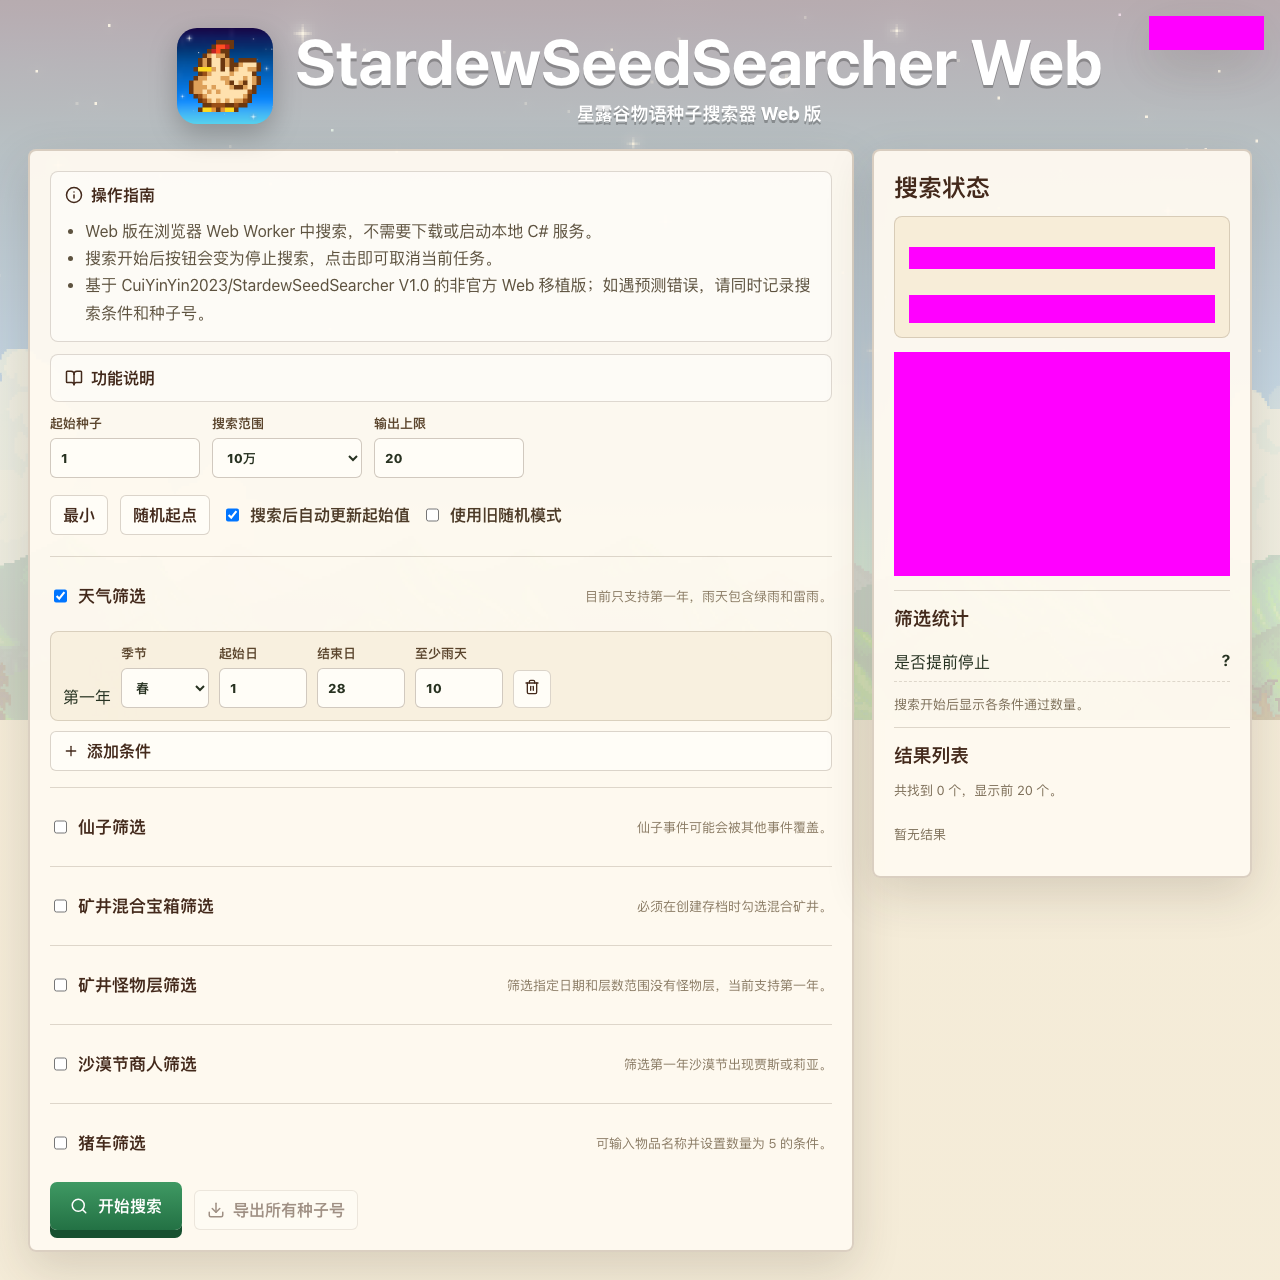
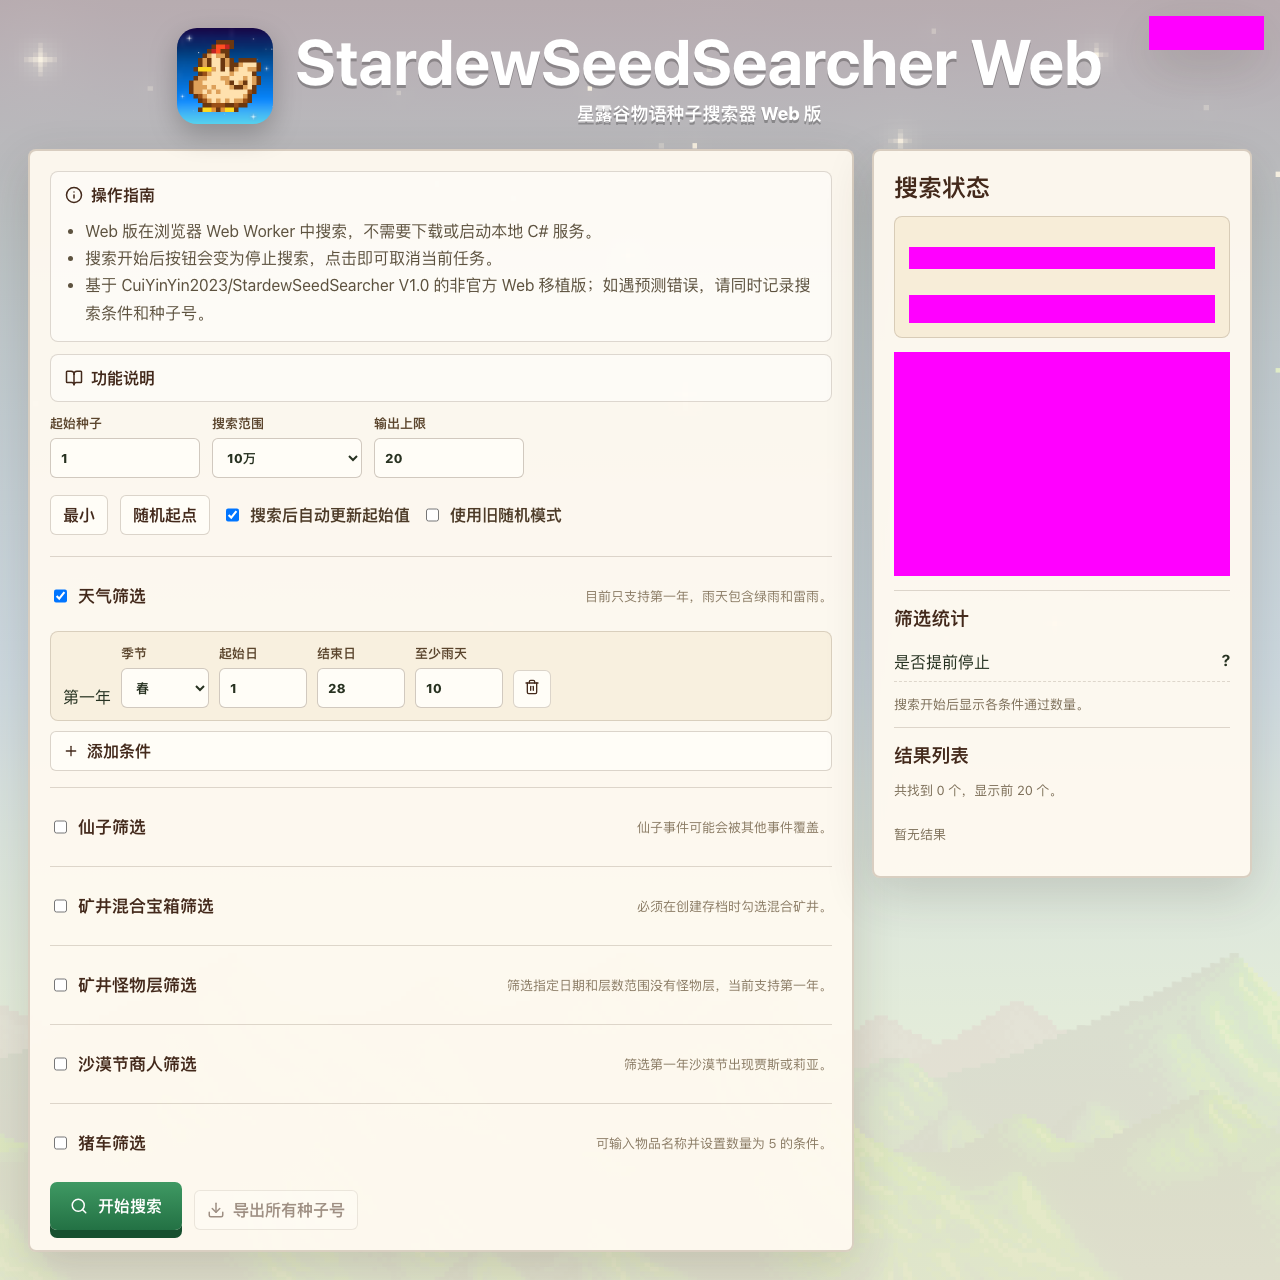
Improve Safari compatibility

diff --git a/src/browserCompat.ts b/src/browserCompat.ts
@@ -1,0 +1,68 @@
+export function createJobId(cryptoSource: Crypto | undefined = globalThis.crypto): string {
+  if (typeof cryptoSource?.randomUUID === 'function') {
+    return cryptoSource.randomUUID()
+  }
+
+  const values = new Uint32Array(4)
+  if (typeof cryptoSource?.getRandomValues === 'function') {
+    cryptoSource.getRandomValues(values)
+    return `job-${Array.from(values, (value) => value.toString(16).padStart(8, '0')).join('-')}`
+  }
+
+  return `job-${Date.now().toString(36)}-${Math.random().toString(36).slice(2)}`
+}
+
+export function randomInt(maxExclusive: number, cryptoSource: Crypto | undefined = globalThis.crypto): number {
+  if (!Number.isFinite(maxExclusive) || maxExclusive <= 0) return 0
+
+  if (typeof cryptoSource?.getRandomValues === 'function') {
+    const value = new Uint32Array(1)
+    cryptoSource.getRandomValues(value)
+    return value[0] % maxExclusive
+  }
+
+  return Math.floor(Math.random() * maxExclusive)
+}
+
+export async function copyTextToClipboard(text: string): Promise<boolean> {
+  if (typeof navigator.clipboard?.writeText === 'function') {
+    try {
+      await navigator.clipboard.writeText(text)
+      return true
+    } catch {
+      // Safari can expose Clipboard API but reject it outside narrow gesture/permission windows.
+    }
+  }
+
+  return copyTextWithTextArea(text)
+}
+
+function copyTextWithTextArea(text: string): boolean {
+  const textarea = document.createElement('textarea')
+  textarea.value = text
+  textarea.readOnly = true
+  textarea.style.position = 'fixed'
+  textarea.style.top = '0'
+  textarea.style.left = '-9999px'
+  textarea.style.opacity = '0'
+
+  const selection = document.getSelection()
+  const selectedRange = selection && selection.rangeCount > 0 ? selection.getRangeAt(0) : null
+
+  document.body.appendChild(textarea)
+  textarea.focus()
+  textarea.select()
+  textarea.setSelectionRange(0, text.length)
+
+  try {
+    return document.execCommand('copy')
+  } catch {
+    return false
+  } finally {
+    document.body.removeChild(textarea)
+    if (selection && selectedRange) {
+      selection.removeAllRanges()
+      selection.addRange(selectedRange)
+    }
+  }
+}

diff --git a/src/browserCompat.test.ts b/src/browserCompat.test.ts
@@ -1,0 +1,34 @@
+import { describe, expect, it } from 'vitest'
+import { createJobId, randomInt } from './browserCompat'
+
+describe('browser compatibility helpers', () => {
+  it('uses native randomUUID when available', () => {
+    const cryptoSource = {
+      randomUUID: () => '00000000-0000-4000-8000-000000000000',
+    } as unknown as Crypto
+
+    expect(createJobId(cryptoSource)).toBe('00000000-0000-4000-8000-000000000000')
+  })
+
+  it('falls back to getRandomValues when randomUUID is missing', () => {
+    const cryptoSource = {
+      getRandomValues(values: Uint32Array) {
+        values.set([1, 2, 255, 4096])
+        return values
+      },
+    } as unknown as Crypto
+
+    expect(createJobId(cryptoSource)).toBe('job-00000001-00000002-000000ff-00001000')
+  })
+
+  it('uses crypto-backed random integers when available', () => {
+    const cryptoSource = {
+      getRandomValues(values: Uint32Array) {
+        values[0] = 1234
+        return values
+      },
+    } as unknown as Crypto
+
+    expect(randomInt(1000, cryptoSource)).toBe(234)
+  })
+})

diff --git a/src/App.tsx b/src/App.tsx
@@ -13,6 +13,7 @@ import {
 } from 'lucide-react'
 import './App.css'
 import logo from './assets/logo.png'
+import { copyTextToClipboard, createJobId, randomInt } from './browserCompat'
 import {
   allCartItemNames,
   formatGameDate,
@@ -158,7 +159,7 @@ function App() {
     const request = buildRequest()
     const worker = workerRef.current ?? new Worker(new URL('./search.worker.ts', import.meta.url), { type: 'module' })
     workerRef.current = worker
-    const jobId = crypto.randomUUID()
+    const jobId = createJobId()
     activeJobId.current = jobId
     savedStartSeed.current = startSeed
 
@@ -190,9 +191,7 @@ function App() {
   }
 
   function setRandomStartSeed() {
-    const buffer = new Uint32Array(1)
-    crypto.getRandomValues(buffer)
-    setStartSeed((buffer[0] % 1_000_000_000) + 1)
+    setStartSeed(randomInt(1_000_000_000) + 1)
   }
 
   function handleWorkerMessage(message: SearchMessage & { message?: string }, request: SearchRequest) {
@@ -250,12 +249,15 @@ function App() {
     const link = document.createElement('a')
     link.href = url
     link.download = `stardew-seeds-${Date.now()}.txt`
+    document.body.appendChild(link)
     link.click()
-    URL.revokeObjectURL(url)
+    document.body.removeChild(link)
+    window.setTimeout(() => URL.revokeObjectURL(url), 0)
   }
 
   async function copySeed(seed: number) {
-    await navigator.clipboard?.writeText(String(seed))
+    const copied = await copyTextToClipboard(String(seed))
+    if (!copied) setStatusMessage('复制失败，请手动复制种子号')
   }
 
   return (

diff --git a/src/App.css b/src/App.css
@@ -25,6 +25,7 @@
 body {
   margin: 0;
   min-width: 320px;
+  overflow-x: hidden;
 }
 
 button,
@@ -44,10 +45,11 @@ button:disabled {
 
 .app-shell {
   min-height: 100vh;
+  min-height: 100svh;
   padding: 28px;
   background:
     linear-gradient(rgba(245, 236, 216, 0.72), rgba(245, 236, 216, 0.9)),
-    url("./assets/background.png") center top / cover fixed;
+    url("./assets/background.png") center top / cover no-repeat;
 }
 
 .connection-status {
@@ -436,6 +438,8 @@ select:focus {
 .drawer-backdrop {
   position: fixed;
   inset: 0;
+  min-height: 100vh;
+  min-height: 100svh;
   z-index: 30;
   background: rgba(32, 23, 15, 0.4);
   display: flex;
@@ -445,6 +449,7 @@ select:focus {
 .seed-drawer {
   width: min(460px, 100vw);
   height: 100%;
+  max-height: 100svh;
   background: var(--paper);
   box-shadow: -20px 0 60px rgba(32, 23, 15, 0.24);
   padding: 20px;

diff --git a/playwright.config.ts b/playwright.config.ts
@@ -16,6 +16,7 @@ export default defineConfig({
   },
   projects: [
     { name: 'chromium', use: { ...devices['Desktop Chrome'] } },
+    { name: 'webkit', use: { ...devices['Desktop Safari'] } },
     { name: 'mobile', use: { ...devices['Pixel 7'] } },
   ],
 })